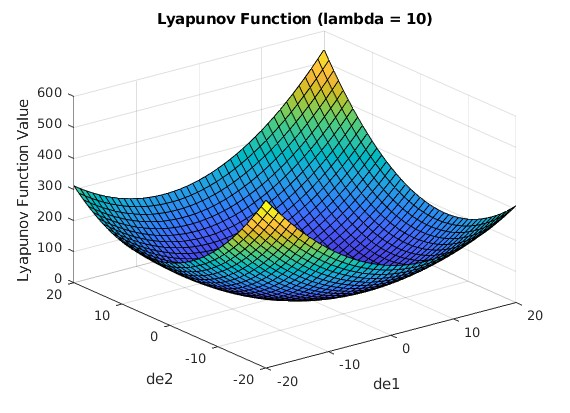
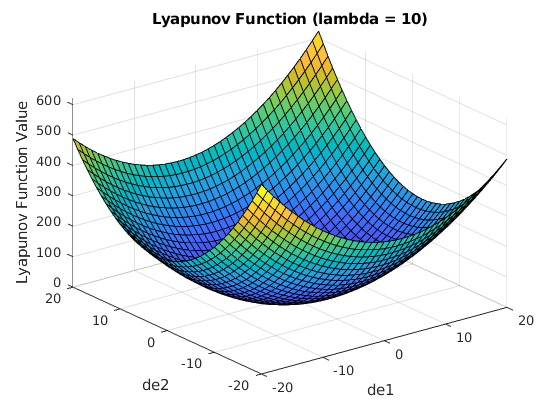
update the plot

diff --git a/Step3.m b/Step3.m
@@ -221,8 +221,8 @@ grid on;
 %%
 [de_x,de_y] = meshgrid(-20:1:20,-20:1:20);
 
-A_plot = [   0.502889373238089   0.142952513192032
-   0.142952513192032   0.562598867148055  ];
+A_plot = [   0.0370    0.0035
+    0.0035    0.2287  ];
 
 eig(A_plot)
 
@@ -238,4 +238,4 @@ surf(de_x,de_y,Lyap)
 xlabel('de1')
 ylabel('de2')
 zlabel('Lyapunov Function Value')
-title('Lyapunov Function (lambda = 10)')
+title('Lyapunov Function (lambda = 20)')
